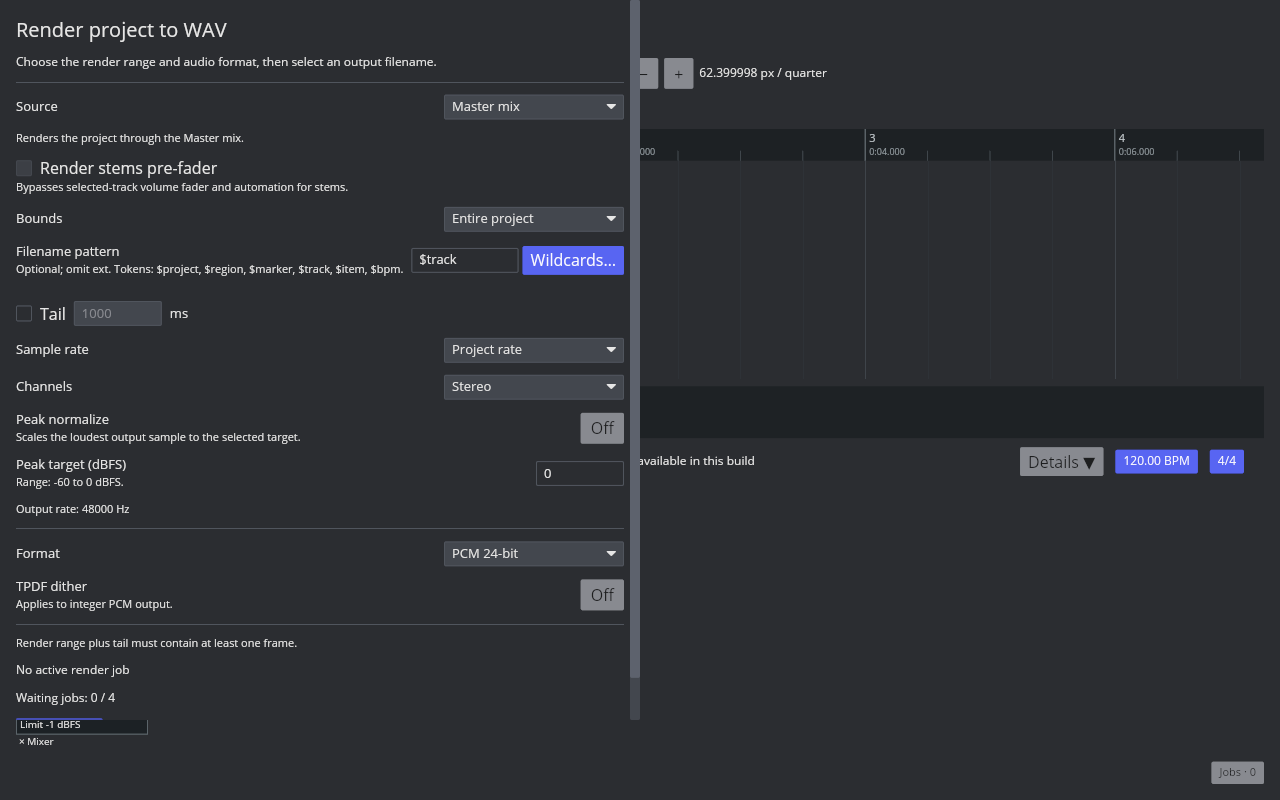
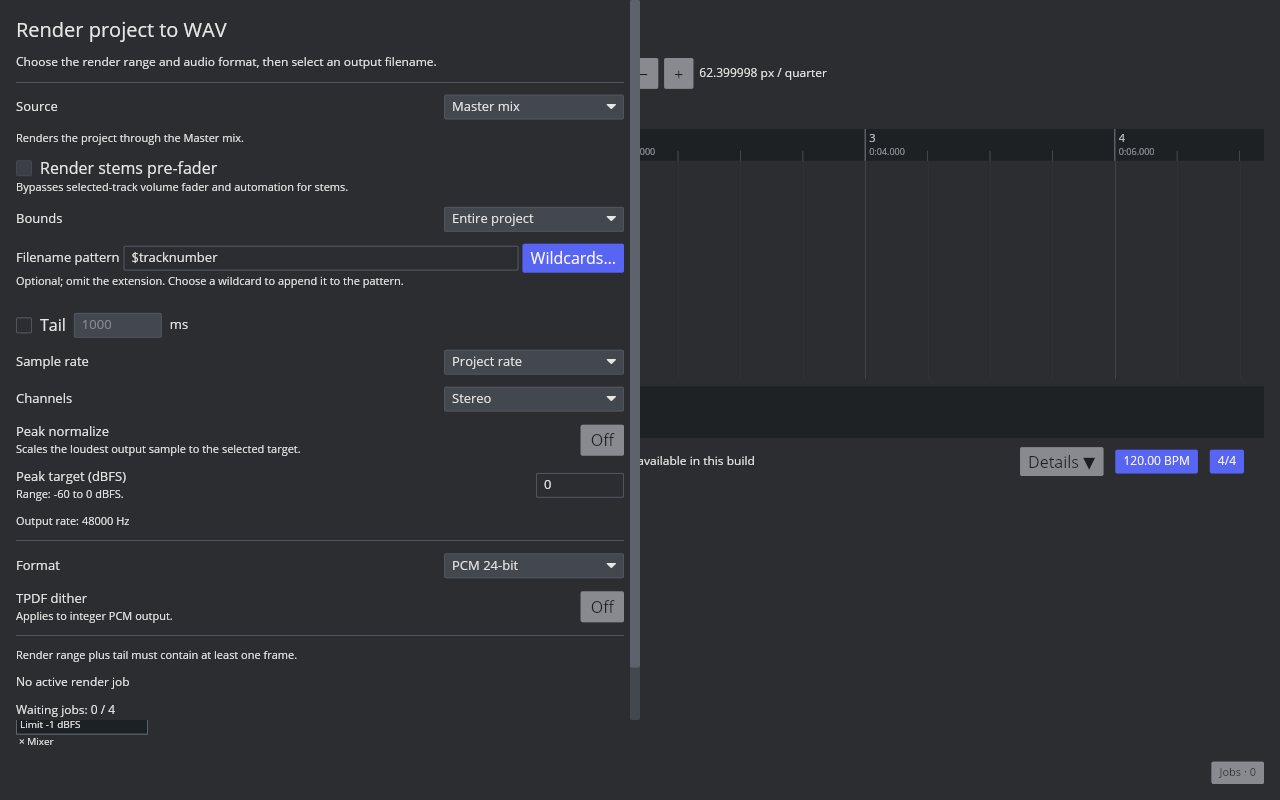
feat(render): expand common wildcard variables

diff --git a/crates/aaadaw/src/app/audio_export.rs b/crates/aaadaw/src/app/audio_export.rs
@@ -44,29 +44,53 @@ pub(crate) enum RenderSource {
 #[derive(Clone, Copy, Debug, Eq, PartialEq)]
 pub(crate) enum RenderFilenameWildcard {
     Project,
+    Tempo,
+    TimeSignature,
+    TimeSigNum,
+    TimeSigDenom,
     Region,
+    RegionNumber,
     Marker,
+    MarkerNumber,
     Track,
+    TrackNumber,
+    TrackNameOrNumber,
     Item,
     Bpm,
 }
 
 impl RenderFilenameWildcard {
-    pub(crate) const ALL: [Self; 6] = [
+    pub(crate) const ALL: [Self; 14] = [
         Self::Project,
-        Self::Region,
-        Self::Marker,
-        Self::Track,
-        Self::Item,
         Self::Bpm,
+        Self::Tempo,
+        Self::TimeSignature,
+        Self::TimeSigNum,
+        Self::TimeSigDenom,
+        Self::Track,
+        Self::TrackNumber,
+        Self::TrackNameOrNumber,
+        Self::Region,
+        Self::RegionNumber,
+        Self::Marker,
+        Self::MarkerNumber,
+        Self::Item,
     ];
 
     pub(crate) const fn token(self) -> &'static str {
         match self {
             Self::Project => "$project",
+            Self::Tempo => "$tempo",
+            Self::TimeSignature => "$timesignature",
+            Self::TimeSigNum => "$timesignum",
+            Self::TimeSigDenom => "$timesigdenom",
             Self::Region => "$region",
+            Self::RegionNumber => "$regionnumber",
             Self::Marker => "$marker",
+            Self::MarkerNumber => "$markernumber",
             Self::Track => "$track",
+            Self::TrackNumber => "$tracknumber",
+            Self::TrackNameOrNumber => "$tracknameornumber",
             Self::Item => "$item",
             Self::Bpm => "$bpm",
         }
@@ -696,6 +720,31 @@ fn expand_render_filename_pattern(
                 ""
             }
         });
+    let track_number = track_id
+        .and_then(|track_id| {
+            project
+                .tracks()
+                .iter()
+                .position(|track| track.id() == track_id)
+        })
+        .map_or(0, |index| index + 1);
+    let track_number_text = format!("{track_number:02}");
+    let track_name_or_number = track_id
+        .and_then(|track_id| project.tracks().iter().find(|track| track.id() == track_id))
+        .map(|track| {
+            if track.name().is_empty() {
+                track_number_text.as_str()
+            } else {
+                track.name()
+            }
+        })
+        .unwrap_or_else(|| {
+            if settings.source == aaadaw_app::ProjectWavRenderSource::MasterMix {
+                "Master"
+            } else {
+                ""
+            }
+        });
     let item_name = match settings.source {
         aaadaw_app::ProjectWavRenderSource::SelectedAudioItem(item_id) => project
             .audio_items()
@@ -734,6 +783,17 @@ fn expand_render_filename_pattern(
     } else {
         bpm.to_string()
     };
+    let tick = project.tick_at_sample(settings.start_sample).unwrap_or(0);
+    let time_signature = project.time_signature_at_tick(tick);
+    let time_signature_text = format!(
+        "{}-{}",
+        time_signature.numerator(),
+        time_signature.denominator()
+    );
+    let region_number_text =
+        region.map_or_else(String::new, |region| format!("{:02}", region.number()));
+    let marker_number_text =
+        marker.map_or_else(String::new, |(_, marker)| format!("{:02}", marker.number()));
 
     let mut result = String::with_capacity(pattern.len());
     let characters = pattern.chars().collect::<Vec<_>>();
@@ -760,9 +820,17 @@ fn expand_render_filename_pattern(
             .to_ascii_lowercase();
         match token.as_str() {
             "project" => result.push_str(project_name),
+            "tempo" => result.push_str(&bpm_text),
+            "timesignature" => result.push_str(&time_signature_text),
+            "timesignum" => result.push_str(&time_signature.numerator().to_string()),
+            "timesigdenom" => result.push_str(&time_signature.denominator().to_string()),
             "track" => result.push_str(track_name),
+            "tracknumber" => result.push_str(&track_number_text),
+            "tracknameornumber" => result.push_str(track_name_or_number),
             "region" => result.push_str(region.map_or("", |region| region.name())),
+            "regionnumber" => result.push_str(&region_number_text),
             "marker" => result.push_str(marker.map_or("", |(_, marker)| marker.name())),
+            "markernumber" => result.push_str(&marker_number_text),
             "item" => result.push_str(&item_name),
             "bpm" => result.push_str(&bpm_text),
             _ => {
@@ -2400,14 +2468,16 @@ mod tests {
                 )),
                 output.clone(),
             )],
-            "$project-$region-$marker-$track-$bpm",
+            "$project-$region-$regionnumber-$marker-$markernumber-$track-$tracknumber-$tracknameornumber-$bpm-$tempo-$timesignature-$timesignum-$timesigdenom",
             &project,
             project_path,
         )
-        .expect("track/region/marker tokens should resolve");
+        .expect("project, track, region, marker and tempo tokens should resolve");
         assert_eq!(
             track_output[0].1,
-            Path::new("/renders/session-Intro-Start-Drums_Kit-120.wav")
+            Path::new(
+                "/renders/session-Intro-01-Start-01-Drums_Kit-01-Drums_Kit-120-120-4-4-4-4.wav"
+            )
         );
 
         let item_id = project.audio_items()[0].id();
@@ -2430,7 +2500,22 @@ mod tests {
     fn render_wildcard_picker_lists_and_inserts_supported_tokens() {
         assert_eq!(
             RenderFilenameWildcard::ALL.map(RenderFilenameWildcard::token),
-            ["$project", "$region", "$marker", "$track", "$item", "$bpm",]
+            [
+                "$project",
+                "$bpm",
+                "$tempo",
+                "$timesignature",
+                "$timesignum",
+                "$timesigdenom",
+                "$track",
+                "$tracknumber",
+                "$tracknameornumber",
+                "$region",
+                "$regionnumber",
+                "$marker",
+                "$markernumber",
+                "$item",
+            ]
         );
 
         let mut app = App::default();

diff --git a/crates/aaadaw/src/app/view/render.rs b/crates/aaadaw/src/app/view/render.rs
@@ -10,6 +10,21 @@ use iced::widget::{
 };
 use iced::{Alignment, Element, Length};
 
+fn wildcard_group_row(
+    label: &'static str,
+    wildcards: impl IntoIterator<Item = RenderFilenameWildcard>,
+) -> iced::widget::Row<'static, Message> {
+    wildcards
+        .into_iter()
+        .fold(row![text(label).size(11)], |tokens, wildcard| {
+            tokens.push(
+                button(wildcard.token()).on_press(Message::InsertRenderFilenameWildcard(wildcard)),
+            )
+        })
+        .spacing(tokens::SPACING_XS)
+        .align_y(Alignment::Center)
+}
+
 pub(super) fn view(app: &App) -> Element<'_, Message> {
     let options = app.wav_export_options;
     let bounds = app.render_dialog.bounds;
@@ -165,16 +180,9 @@ pub(super) fn view(app: &App) -> Element<'_, Message> {
         .spacing(tokens::SPACING_SM)
         .align_y(Alignment::Center),
         bounds_control,
-        row![
-            column![
-                text("Filename pattern").size(13),
-                text(
-                    "Optional; omit ext. Tokens: $project, $region, $marker, $track, $item, $bpm."
-                )
-                .size(11),
-            ]
-            .spacing(2),
+        column![
             row![
+                text("Filename pattern").size(13),
                 text_input(
                     "$project-$region-$track",
                     &app.render_dialog.filename_pattern
@@ -189,25 +197,36 @@ pub(super) fn view(app: &App) -> Element<'_, Message> {
             ]
             .spacing(tokens::SPACING_XS)
             .align_y(Alignment::Center),
+            text("Optional; omit the extension. Choose a wildcard to append it to the pattern.")
+                .size(11),
         ]
-        .spacing(tokens::SPACING_SM)
-        .align_y(Alignment::Center),
+        .spacing(2),
         if app.render_dialog.wildcard_menu_open {
-            RenderFilenameWildcard::ALL
-                .into_iter()
-                .fold(
-                    row![text("Insert wildcard:").size(11)],
-                    |tokens, wildcard| {
-                        tokens.push(
-                            button(wildcard.token())
-                                .on_press(Message::InsertRenderFilenameWildcard(wildcard)),
-                        )
-                    },
-                )
-                .spacing(tokens::SPACING_XS)
-                .align_y(Alignment::Center)
+            column![
+                wildcard_group_row(
+                    "Project / tempo:",
+                    RenderFilenameWildcard::ALL.into_iter().take(3),
+                ),
+                wildcard_group_row(
+                    "Time signature:",
+                    RenderFilenameWildcard::ALL.into_iter().skip(3).take(3),
+                ),
+                wildcard_group_row(
+                    "Tracks:",
+                    RenderFilenameWildcard::ALL.into_iter().skip(6).take(3),
+                ),
+                wildcard_group_row(
+                    "Regions / markers:",
+                    RenderFilenameWildcard::ALL.into_iter().skip(9).take(4),
+                ),
+                wildcard_group_row(
+                    "Media items:",
+                    RenderFilenameWildcard::ALL.into_iter().skip(13),
+                ),
+            ]
+            .spacing(tokens::SPACING_XS)
         } else {
-            row![]
+            column![]
         },
         {
             let fields: Element<'_, Message> =

diff --git a/docs/verification/reaper-parity/render-filename-patterns.md b/docs/verification/reaper-parity/render-filename-patterns.md
@@ -2,10 +2,10 @@
 
 Linux REAPER 7.82 / Default 7 places a `File name` pattern field and `Wildcards` button in the Render window. The captured selected-item case uses `$region-$item` and resolves to `bounds-ui-Region 2-item_02.wav`; the reference dialog and measured output are archived in [the native screenshot](images/render-selected-items-native.png) and [the output record](render-selected-items-native.tsv). The native Region Render Matrix fixture uses `$region-$track` and emits `Intro-Master.wav`, `Intro-Drums.wav`, `Intro-Guitar.wav`, and `Verse-Bass.wav`.
 
-AAADAW now provides an optional filename-pattern field in its Render window and a `Wildcards…` picker immediately below it. The picker exposes the six implemented tokens: `$project`, `$region`, `$marker`, `$track`, `$item`, and `$bpm`. Selecting one appends it to the end of the pattern and closes the picker. A chosen output path supplies the directory and extension; a blank pattern retains the existing generated names. The resolver sanitizes characters unsafe in file names and rejects patterns that resolve multiple jobs to the same name before queueing. The Render job still publishes through the existing atomic batch writer.
+AAADAW now provides an optional filename-pattern field in its Render window and a grouped `Wildcards…` picker immediately below it. Its 14 implemented tokens are `$project`, `$bpm`, `$tempo`, `$timesignature`, `$timesignum`, `$timesigdenom`, `$track`, `$tracknumber`, `$tracknameornumber`, `$region`, `$regionnumber`, `$marker`, `$markernumber`, and `$item`. Selecting one appends it to the end of the pattern and closes the picker. A chosen output path supplies the directory and extension; a blank pattern retains the existing generated names. The resolver sanitizes characters unsafe in file names and rejects patterns that resolve multiple jobs to the same name before queueing. The Render job still publishes through the existing atomic batch writer.
 
-The [AAADAW filename-field capture](fixtures/render-filename-pattern-aaadaw.png), [expanded picker capture](fixtures/render-filename-pattern-wildcards-aaadaw.png), and [track-token insertion capture](fixtures/render-filename-pattern-wildcard-insert-aaadaw.png) were taken from the rebuilt desktop binary. The reproducible [capture script](../../../scripts/reaper_parity/capture-render-filename-pattern-aaadaw.sh) drives the visible Render command with Ctrl+Alt+R; set `AAADAW_OPEN_WILDCARDS=1` to capture the expanded picker, or `AAADAW_INSERT_WILDCARD=track` to click the visible `$track` button and capture the resulting field. Screenshot hashes, native inputs, implementation tokens, and regression results are in the [fixture manifest](fixtures/render-filename-pattern-aaadaw.tsv).
+The [AAADAW filename-field capture](fixtures/render-filename-pattern-aaadaw.png), [expanded picker capture](fixtures/render-filename-pattern-wildcards-aaadaw.png), and [track-token insertion capture](fixtures/render-filename-pattern-wildcard-insert-aaadaw.png) were taken from the rebuilt desktop binary. The reproducible [capture script](../../../scripts/reaper_parity/capture-render-filename-pattern-aaadaw.sh) drives the visible Render command with Ctrl+Alt+R; set `AAADAW_OPEN_WILDCARDS=1` to capture the expanded picker, or `AAADAW_INSERT_WILDCARD=tracknumber` to click the visible token and capture the resulting field. Native UI probes accept `AAADAW_REAPER_WILDCARD_PATTERN` to replace their default `$region-$item` or `$marker-$item` pattern. Two additional native captures verify expansion in context: `$tracknumber-$tracknameornumber-$regionnumber-$tempo-$timesignature-$timesignum-$timesigdenom` produces `01-Render fixture-02-120-4-4-4-4.wav` for the selected item, and `$markernumber` produces `01.wav` for the first marker. See the [native context capture](fixtures/render-wildcards-context-native.png) and [native marker capture](fixtures/render-wildcards-marker-native.png). Screenshot hashes, native inputs, implementation tokens, and regression results are in the [fixture manifest](fixtures/render-filename-pattern-aaadaw.tsv).
 
-The regression resolves the native `$region-$track` matrix pattern to the same four native target names, renders those jobs through AAADAW's offline audio renderer, and compares every PCM24 sample to the matching REAPER output. A second test resolves `$region-$item` to the observed `Intro-item_01.wav` form; separate checks cover `$project`, `$marker`, `$track`, `$bpm`, safe-name conversion, blank-pattern fallback, unknown literal tokens, and duplicate-name rejection. The queue test sets `$project-$track` through the Render message and checks that the queued stem paths use the expanded project and track names; it also verifies duplicate names leave the queue unchanged. The picker regression covers all six visible tokens, appending the selected token, and closing the menu. Final validation passed all 663 App tests, strict all-target App Clippy (`-D warnings`), the stripped-debug desktop build, rustfmt, diff checks, and fixture/hash validation.
+The regression resolves the native `$region-$track` matrix pattern to the same four native target names, renders those jobs through AAADAW's offline audio renderer, and compares every PCM24 sample to the matching REAPER output. A second test resolves `$region-$item` to the observed `Intro-item_01.wav` form. The context-expansion regression checks the added track, region, tempo, and time-signature variables; separate cases cover `$project`, `$marker`, `$item`, `$bpm`, safe-name conversion, blank-pattern fallback, unknown literal tokens, and duplicate-name rejection. The queue test sets `$project-$track` through the Render message and checks that queued stem paths use the expanded project and track names; it also verifies duplicate names leave the queue unchanged. The picker regression covers all 14 visible tokens, appending the selected token, and closing the menu. See the manifest for current build, screenshot hashes, and validation counts.
 
-This does not complete REAPER Wildcards parity. The picker only exposes the six implemented tokens and appends at the end of the pattern; insertion at the caret or over a selection, the full REAPER token set, ordering and escaping rules, date/time values, track numbering, pattern presets and cross-launch persistence, native collision prompts, and the remaining source/range combinations are open. `$marker` and `$bpm` have implementation tests but no matching native render fixture. `RENDER-WILDCARDS-001`, `RENDER-SOURCE-001`, and `UI-028` remain `in_progress`.
+This does not complete REAPER Wildcards parity. The picker exposes a tested subset of the native token set and appends at the pattern end; insertion at the caret or over a selection, project/region/marker/item notes and name expressions, folders/parent/FX, positions and timecode, recording names, output format/channels, date/time/unique IDs, computer/user values, REAPER's full ordering and escaping rules, pattern presets and cross-launch persistence, native collision prompts, and remaining source/range combinations are open. The native context captures directly verify track number/name, region number, tempo, time signature components, and marker number. `$marker` text/name expansion and many source-dependent values still need native comparisons. `RENDER-WILDCARDS-001`, `RENDER-SOURCE-001`, and `UI-028` remain `in_progress`.

diff --git a/docs/verification/reaper-parity/render-source.md b/docs/verification/reaper-parity/render-source.md
@@ -20,7 +20,7 @@ AAADAW stores a Master-mix boolean and ordered TrackId list per project region i
 
 The Render Source menu now offers `Region Render Matrix` with All/Selected Project Regions bounds. The existing atomic batch-render queue builds one output for each assigned Master row and one for each assigned track row, and stores per-region ranges in each job. The native Linux REAPER 7.82 render action produced four outputs for this fixture: `Intro-Master.wav`, `Intro-Drums.wav`, `Intro-Guitar.wav`, and `Verse-Bass.wav`; unassigned target/region pairs produced no files. All four files were 48 kHz stereo PCM24 with 96,000 frames. The [source generator](../../../scripts/reaper_parity/generate-region-render-matrix-sources.py), [ReaScript render probe](../../../scripts/reaper_parity/probe-region-render-matrix-render.lua), [native output table](fixtures/region-render-matrix-render-native.tsv), and [PCM fixtures](fixtures/region-render-matrix-render/) preserve the setup, metadata, hashes, and payloads. An AAADAW regression renders the same four target jobs and compares every PCM payload byte-for-byte with the corresponding native fixture; output format, frame count, and sample values also match exactly.
 
-The Render window now has an optional filename-pattern field and a visible `Wildcards…` picker for `$project`, `$region`, `$marker`, `$track`, `$item`, and `$bpm`; choosing a token appends it to the pattern. For the tested `$region-$track` pattern, AAADAW emits the native names `Intro-Master.wav`, `Intro-Drums.wav`, `Intro-Guitar.wav`, and `Verse-Bass.wav`; its offline renderer still matches all four native PCM payloads byte-for-byte. The native `$region-$item` case resolves to `bounds-ui-Region 2-item_02.wav`, and AAADAW now resolves the same token pair to the observed item-name form. Blank patterns keep the existing generated output names. Caret/selection insertion, the complete token and escaping rules, preset persistence, and more source/range combinations remain open; see [filename wildcard verification](render-filename-patterns.md). The simple fixture confirms the tested track signal and Master sum, but not pre/post-fader settings, automation, folders/sends, or FX routing. Those gaps keep `RENDER-SOURCE-001` and `PROJECT-REGIONS-001` `in_progress`.
+The Render window now has an optional filename-pattern field and a grouped `Wildcards…` picker for 14 implemented tokens: `$project`, `$bpm`, `$tempo`, `$timesignature`, `$timesignum`, `$timesigdenom`, `$track`, `$tracknumber`, `$tracknameornumber`, `$region`, `$regionnumber`, `$marker`, `$markernumber`, and `$item`; choosing a token appends it to the pattern. A native selected-item Render probe confirms `$tracknumber-$tracknameornumber-$regionnumber-$tempo-$timesignature-$timesignum-$timesigdenom` resolves to `01-Render fixture-02-120-4-4-4-4.wav`, and the marker probe confirms `$markernumber` resolves to `01.wav`. For the tested `$region-$track` pattern, AAADAW emits the native names `Intro-Master.wav`, `Intro-Drums.wav`, `Intro-Guitar.wav`, and `Verse-Bass.wav`; its offline renderer still matches all four native PCM payloads byte-for-byte. The native `$region-$item` case resolves to `bounds-ui-Region 2-item_02.wav`, and AAADAW resolves the same token pair to the observed item-name form. Blank patterns keep the existing generated output names. Caret/selection insertion, the complete token and escaping rules, preset persistence, and more source/range combinations remain open; see [filename wildcard verification](render-filename-patterns.md). The simple fixture confirms the tested track signal and Master sum, but not pre/post-fader settings, automation, folders/sends, or FX routing. Those gaps keep `RENDER-SOURCE-001` and `PROJECT-REGIONS-001` `in_progress`.
 
 ### Selected media items
 
